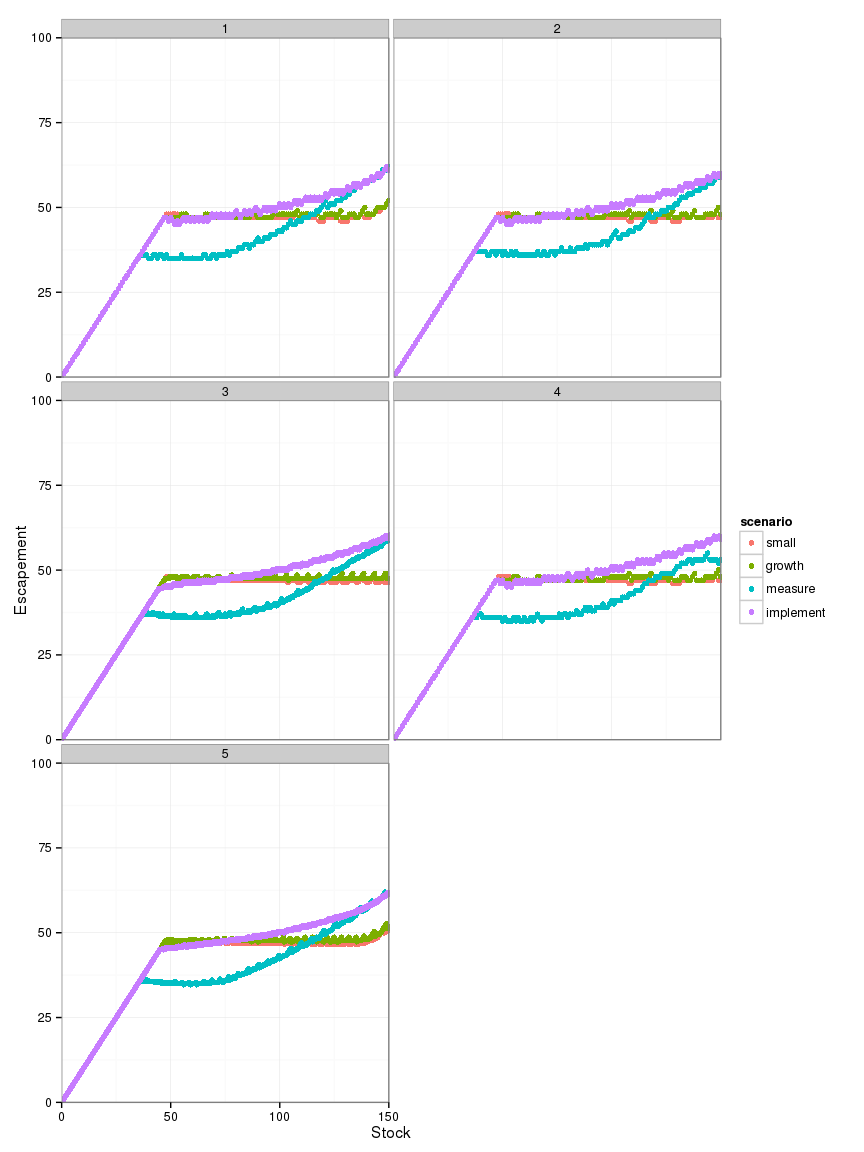
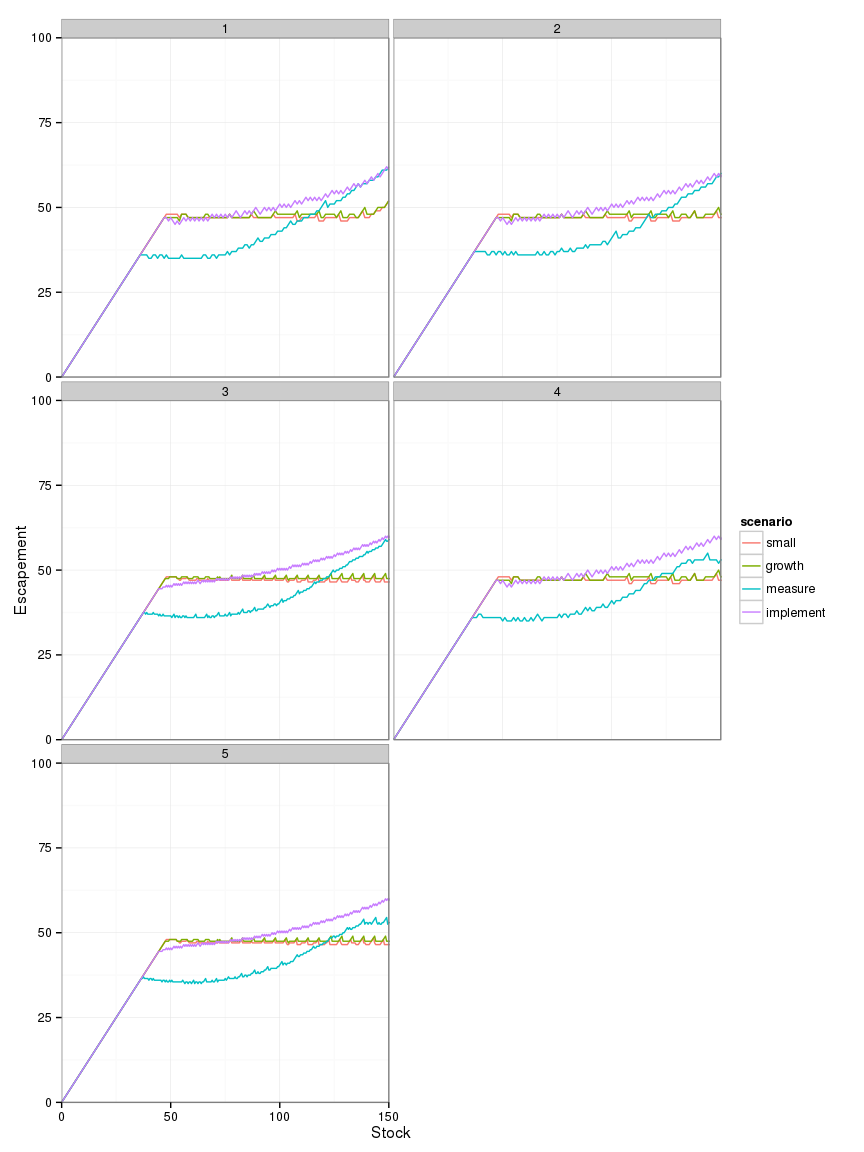
finer grid

diff --git a/inst/scripts/robust_grid.md b/inst/scripts/robust_grid.md
@@ -1,19 +1,5 @@
 ``` r
 library("dplyr")
-```
-
-    ## 
-    ## Attaching package: 'dplyr'
-    ## 
-    ## The following objects are masked from 'package:stats':
-    ## 
-    ##     filter, lag
-    ## 
-    ## The following objects are masked from 'package:base':
-    ## 
-    ##     intersect, setdiff, setequal, union
-
-``` r
 library("tidyr")
 library("ggplot2")
 library("multipleuncertainty")
@@ -34,8 +20,8 @@ fig3 <- function(m, l){
 
 df <- 
 data.frame(id = 1:5, 
-           max    = c(150, 200, 200, 400, 150), 
-           length = c(151, 201, 401, 401, 451)) %>%
+           max    = c(150, 200, 200, 400, 300), 
+           length = c(151, 201, 401, 401, 601)) %>%
   dplyr::group_by(id) %>%
   dplyr::do(fig3(.$max, .$length))
 ```
@@ -43,7 +29,7 @@ data.frame(id = 1:5,
 ``` r
 df %>%
   ggplot(aes(x = y_grid, y = value, col = scenario)) + 
-    geom_point()  + facet_wrap(~id, ncol = 2) + 
+    geom_line()  + facet_wrap(~id, ncol = 2) + 
     xlab("Stock") + ylab("Escapement") + 
     coord_cartesian(xlim = c(0, 150), ylim = c(0,100)) + 
     theme_bw() 
